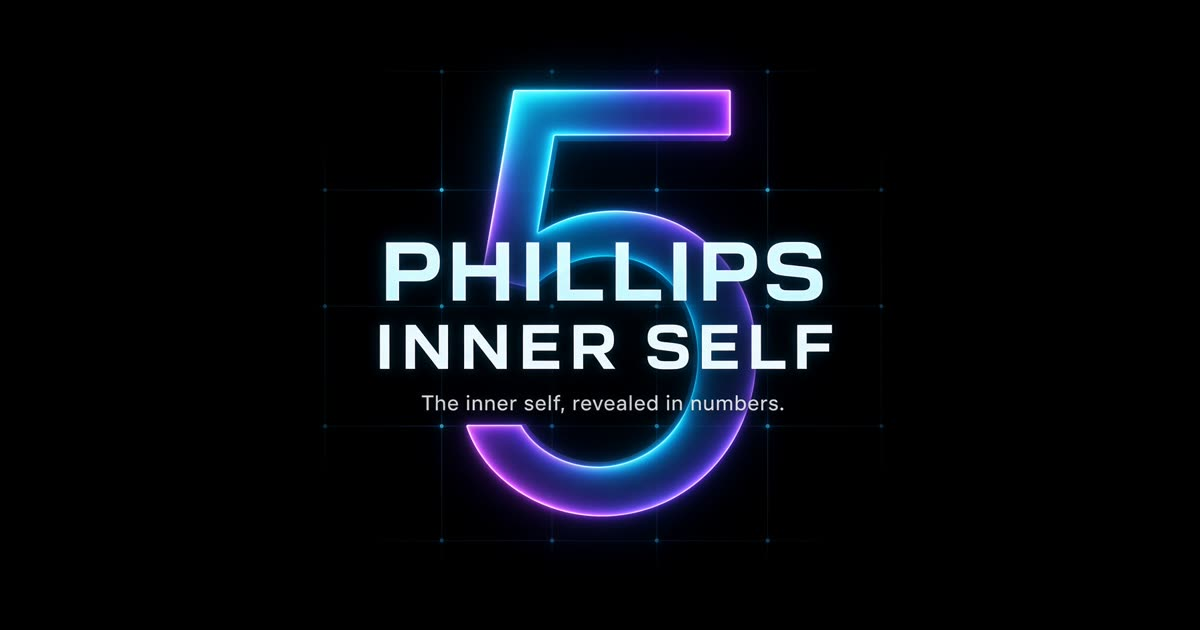
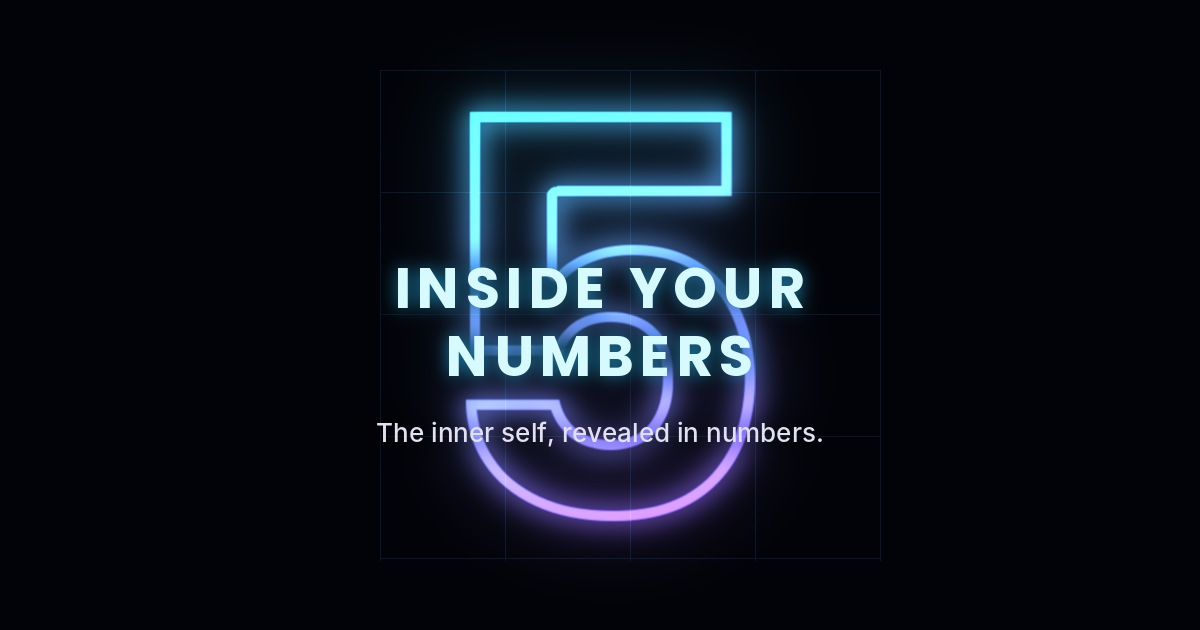
Rename Phillips Inner Self to Inside Your Numbers; new cover
Claude-Session: https://claude.ai/code/session_01GbFJtTxm7Hv7MMcBcvi6mf

Changed region(s): [[0.3083, 0.1206, 0.7092, 0.8746]]

diff --git a/s3.js b/s3.js
@@ -22,15 +22,15 @@ const AP3 = [
   inside:["Your house, unit or flat number, read in full","Master numbers held whole","Letters in the address counted properly","The working shown at every step","A library of your recent readings","Muldoon's method, credited","Private to your device"]
 },
 {
-  slug:"phillips-inner-self", name:"Phillips Inner Self", cat:"numerology", price:59, status:"live", ready:true,
+  slug:"phillips-inner-self", name:"Inside Your Numbers", cat:"numerology", price:59, status:"live", ready:true,
   cover:"covers/phillips-inner-self.jpg",
-  desc:"David Phillips' reading of the inner self \u2014 the numbers behind how you actually operate.",
+  desc:"The numbers behind how you actually operate \u2014 method after David Phillips' numerology.",
   tag:"The inner self, revealed in numbers.",
   body:[
-    "Phillips' own framework for the interior life, worked through properly rather than summarised. It reads the numbers that describe temperament and motive, and says what each one does when it is working and what it does when it isn't.",
+    "A framework for the interior life, following David Phillips' numerology and worked through properly rather than summarised. It reads the numbers that describe temperament and motive, and says what each one does when it is working and what it does when it isn't.",
     "One file, no account, no subscription \u2014 it says so on its own front page. Opens from the desktop with the network off, and everything stays on the device."
   ],
-  inside:["Phillips' framework, worked through in full","What each number does well, and badly","No account and no subscription","Runs offline, from one file","Private to your device"]
+  inside:["The framework, worked through in full","What each number does well, and badly","No account and no subscription","Runs offline, from one file","Private to your device"]
 },
 {
   slug:"domain-energy", name:"Domain Energy", cat:"numerology", price:59, status:"live", ready:true,
